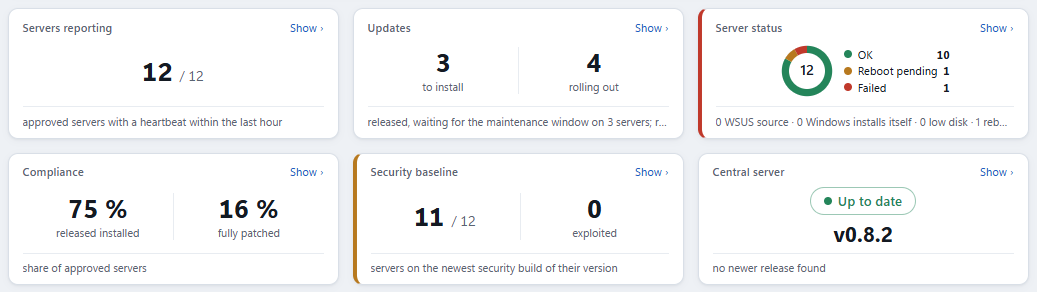
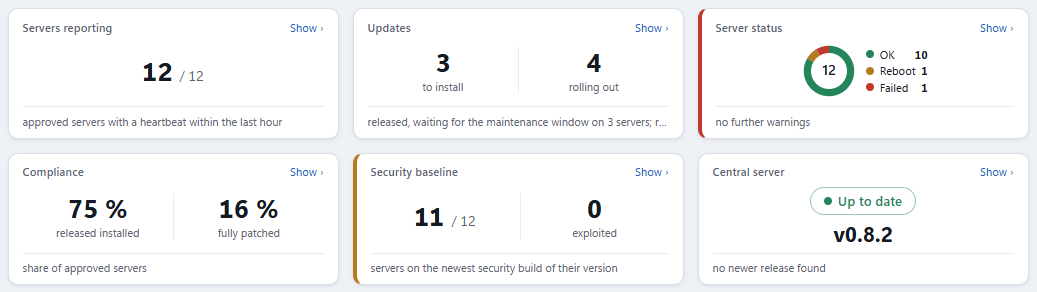
New README for the public beta; overview plurals and server status tile texts

Changed region(s): [[0.7406, 0.1541, 0.9257, 0.339], [0.6789, 0.4007, 0.9875, 0.4315]]

diff --git a/tests/SUSyphos.UiTests/ReadmeScreenshotTests.cs b/tests/SUSyphos.UiTests/ReadmeScreenshotTests.cs
@@ -3,7 +3,8 @@ using Microsoft.Playwright;
 namespace SUSyphos.UiTests;
 
 /// <summary>
-/// Full-page screenshots of the showcase lab for the README (docs/images, 1440 px wide, with the navigation). A normal run
+/// Screenshots of the showcase lab for the README (docs/images, 1440 px wide, with the navigation): the overview at window
+/// height (1440 × 900, the first impression), the other pages in full length. A normal run
 /// checks that every page can still be shown and that the committed image exists; with SUSYPHOS_HELP_SCREENSHOTS=update
 /// (build/Update-HelpScreenshots.ps1) the images are written anew.
 /// </summary>
@@ -42,7 +43,7 @@ public sealed class ReadmeScreenshotTests(ShowcaseFixture ui)
         if (HelpScreenshotTests.Update)
         {
             Directory.CreateDirectory(Path.GetDirectoryName(file)!);
-            await page.ScreenshotAsync(new PageScreenshotOptions { Path = file, FullPage = true });
+            await page.ScreenshotAsync(new PageScreenshotOptions { Path = file, FullPage = name != "overview" });
         }
 
         Assert.True(File.Exists(file), $"{file} is missing; run build/Update-HelpScreenshots.ps1.");

diff --git a/tests/SUSyphos.Server.Tests/DisplayTextTests.cs b/tests/SUSyphos.Server.Tests/DisplayTextTests.cs
@@ -1,0 +1,24 @@
+using SUSyphos.Server.Administration;
+using SUSyphos.Server.Components;
+
+namespace SUSyphos.Server.Tests;
+
+public sealed class DisplayTextTests
+{
+    [Theory]
+    [InlineData(1, "1 server")]
+    [InlineData(0, "0 servers")]
+    [InlineData(2, "2 servers")]
+    public void Count_PicksSingularOnlyForOne(int value, string expected)
+    {
+        Assert.Equal(expected, DisplayNumber.Count(value, "server", "servers"));
+    }
+
+    [Fact]
+    public void LegendLabel_ShortensRebootPending_AndKeepsTheOthers()
+    {
+        Assert.Equal("Reboot", ServerHealth.LegendLabel(ServerHealthState.RebootPending));
+        Assert.Equal("Reboot pending", ServerHealth.Label(ServerHealthState.RebootPending));
+        Assert.Equal(ServerHealth.Label(ServerHealthState.Failed), ServerHealth.LegendLabel(ServerHealthState.Failed));
+    }
+}

diff --git a/src/SUSyphos.Server/Administration/ServerHealth.cs b/src/SUSyphos.Server/Administration/ServerHealth.cs
@@ -95,6 +95,9 @@ internal static class ServerHealth
     public static IReadOnlyList<Rollouts.DonutPart> Parts(IEnumerable<ServerHealthState> states, Func<ServerHealthState, string?>? link = null)
     {
         var counts = states.GroupBy(s => s).ToDictionary(g => g.Key, g => g.Count());
-        return [.. DonutOrder.Select(s => new Rollouts.DonutPart(PillClass(s), Label(s), counts.GetValueOrDefault(s), link?.Invoke(s)))];
+        return [.. DonutOrder.Select(s => new Rollouts.DonutPart(PillClass(s), LegendLabel(s), counts.GetValueOrDefault(s), link?.Invoke(s)))];
     }
+
+    /// <summary>Label in a donut legend: as <see cref="Label"/>, but short enough for the narrow legend of a tile.</summary>
+    public static string LegendLabel(ServerHealthState state) => state == ServerHealthState.RebootPending ? "Reboot" : Label(state);
 }

diff --git a/tests/SUSyphos.Server.Tests/MsrcTests.cs b/tests/SUSyphos.Server.Tests/MsrcTests.cs
@@ -172,7 +172,7 @@ public sealed class MsrcTests
         Assert.DoesNotContain("CURRENT01", list, StringComparison.Ordinal);
         Assert.Contains("Fixes vulnerabilities", update, StringComparison.Ordinal);
         Assert.Contains("Security baseline", overview, StringComparison.Ordinal);
-        Assert.Contains("servers have a vulnerability Microsoft knows to be exploited", overview, StringComparison.Ordinal);
+        Assert.Contains("1 server has a vulnerability Microsoft knows to be exploited", overview, StringComparison.Ordinal);
         Assert.Contains("<option value=\"vulnerabilities\" selected", chart, StringComparison.Ordinal);
     }
 

diff --git a/src/SUSyphos.Server/Components/DisplayNumber.cs b/src/SUSyphos.Server/Components/DisplayNumber.cs
@@ -16,6 +16,9 @@ public static class DisplayNumber
 
     public static string Format(long value) => value.ToString("N0", Culture);
 
+    /// <summary>"1 server" or "3 servers": the count with the noun (or noun and verb) in singular or plural.</summary>
+    public static string Count(int value, string singular, string plural) => $"{Format(value)} {(value == 1 ? singular : plural)}";
+
     /// <summary>"75 %"; "–" for no value.</summary>
     public static string Percent(int? value) => value is { } percent ? $"{Format(percent)} %" : "–";
 

diff --git a/tests/SUSyphos.Server.Tests/DashboardPageTests.cs b/tests/SUSyphos.Server.Tests/DashboardPageTests.cs
@@ -330,7 +330,7 @@ public sealed class DashboardViewTests
 
         Assert.Equal(HttpStatusCode.OK, response.StatusCode);
         Assert.Contains("stopped before ring Test", html, StringComparison.Ordinal);
-        Assert.Contains("servers with a failed installation", html, StringComparison.Ordinal);
+        Assert.Contains("1 server with a failed installation", html, StringComparison.Ordinal);
         Assert.Contains("1 Pilot", html, StringComparison.Ordinal);
         Assert.Contains("1 failed", html, StringComparison.Ordinal);
     }

diff --git a/README.md b/README.md
@@ -1,72 +1,72 @@
-# SUSyphos
+<p align="center">
+  <img src="assets/logo/susyphos-icon.svg" width="88" alt="SUSyphos logo">
+</p>
 
-Central coordination of Windows updates for Windows servers with ring deployment, central configuration and reporting, as an alternative to WSUS. The name plays on SUS (Software Update Services, the predecessor of WSUS) and Sisyphus. Until 2026-10-20 the project was called UpdateCoordinator; installations of those versions are installed anew (`docs/admin/README.md`, section 17).
+<h1 align="center">SUSyphos</h1>
 
-> Status: beta, from version 0.8.0 (the packages are not code-signed yet). Agents register, verify the central server through its trust anchor, report inventory and available updates, and install released updates inside maintenance windows (reboots only where allowed). The web administration has accounts, roles, sign-in and an audit log; server approval (manual and rule-based); rings, groups, assignment rules, central maintenance windows, the ring logic that moves each update from Pilot to Production, dashboard pages for overview, rings, updates and servers, reboot policies, and an integrated help that explains every page, field and button.
+<p align="center">
+  <b>Ring-based Windows Server patching with one central dashboard.</b><br>
+  A lightweight, self-hosted alternative to WSUS.
+</p>
 
-## Components
+<p align="center">
+  <a href="https://github.com/debold/UpdateCoordinator/releases"><img src="https://img.shields.io/github/v/release/debold/UpdateCoordinator?include_prereleases&label=beta&color=1F5BC4" alt="Latest beta"></a>
+  <a href="https://github.com/debold/UpdateCoordinator/actions/workflows/ci.yml"><img src="https://img.shields.io/github/actions/workflow/status/debold/UpdateCoordinator/ci.yml?branch=main&label=CI" alt="CI"></a>
+  <img src="https://img.shields.io/badge/Windows%20Server-2016%E2%80%932025-151B24" alt="Windows Server 2016 to 2025">
+  <img src="https://img.shields.io/badge/.NET-10-512BD4" alt=".NET 10">
+  <a href="LICENSE"><img src="https://img.shields.io/badge/license-MIT-green" alt="MIT license"></a>
+</p>
 
-| Project | Responsibility |
-|---|---|
-| `src/SUSyphos.Agent` | Windows service on every managed server (WUA API) |
-| `src/SUSyphos.Server` | Central server: Windows service with a web API for agents and the dashboard |
-| `src/SUSyphos.Contracts` | Shared message contracts and routes |
-| `src/SUSyphos.WinGet` | Access to WinGet (in-proc COM API, uninstall inventory, App Installer bootstrap), for the agent later |
-| `tools/SUSyphos.WinGetProbe` | Lab tool for the WinGet tests, not released ([guide](docs/admin/winget-probe.md)) |
-| `tests/*.Tests` | Automated tests per project (xUnit v3) |
-| `tests/SUSyphos.IntegrationTests` | End-to-end tests: real agent client against the in-memory central server |
-| `tests/SUSyphos.TestSupport` | Shared test infrastructure |
+> [!NOTE]
+> **Public beta: [SUSyphos 0.8.2](https://github.com/debold/UpdateCoordinator/releases/tag/release/v0.8.2) is out.** Try it in a lab and tell us what you think in [Issues](https://github.com/debold/UpdateCoordinator/issues). The packages are not code-signed yet; check them against `SHA256SUMS.txt`.
 
-Architecture and decisions are documented in [`docs/`](docs/01-architecture.md), the working rules in [`docs/02-guidelines.md`](docs/02-guidelines.md).
+![Overview of the SUSyphos dashboard](docs/images/overview.png)
 
-## Prerequisites
+## Why SUSyphos
 
-- Windows (agent and central server are Windows services)
-- .NET SDK 10 (version pinned in `global.json`)
+- **Rings instead of approvals.** Updates move from Pilot to Test to Production on their own, with waiting days and an optional manual gate before Production.
+- **Maintenance windows that fit real calendars.** Weekdays plus "only the 2nd week" or "every week except the last". Reboots only where a rule allows them.
+- **Updates straight from Microsoft.** No WSUS database, no content sync, no SQL Server. Agents use the Windows Update Agent API; Microsoft Update per group.
+- **Security at a glance.** Missing builds, CVEs and exploited vulnerabilities from Microsoft's security data, plus end-of-support warnings per Windows version.
+- **Safe by design.** Agents trust the central server through a pinned anchor, admins sign in with Windows (AD groups map to roles), every action lands in the audit log.
+- **Small footprint.** One MSI for the central server, one for the agent, both self-contained. Distribute the agent by GPO, Intune or Configuration Manager.
 
-## Build and test
+## Screenshots
 
-```
-dotnet build SUSyphos.slnx
-dotnet test --solution SUSyphos.slnx
-```
+<table>
+  <tr>
+    <td width="50%"><img src="docs/images/update-list.png" alt="Update list"><br><sub><b>Updates</b>: classification, severity and where each update stands in the rings, including gates and alarms</sub></td>
+    <td width="50%"><img src="docs/images/update-progress.png" alt="Progress by ring"><br><sub><b>Update page</b>: progress by ring with release dates, success rate and the manual gate before Production</sub></td>
+  </tr>
+  <tr>
+    <td><img src="docs/images/server-list.png" alt="Server list"><br><sub><b>Servers</b>: OS build, ring and groups, security state, agent version and status</sub></td>
+    <td><img src="docs/images/start-rule.png" alt="Start rule dialog"><br><sub><b>Release rules</b>: decide which updates start automatically, with a preview of the matches</sub></td>
+  </tr>
+</table>
 
-The build treats warnings as errors, enforces code style and the security rules of the .NET analyzers, and fails on packages with known vulnerabilities.
+## Status and roadmap
 
-`tests/SUSyphos.UiTests` checks the dashboard in a real browser: Playwright drives the installed Microsoft Edge (headless; no browser download) against a central server with a demo lab. Every page is checked in four window sizes (1920, 1440, 1280 and 1024 pixels wide) for sideways scrolling, cut-off text, elements sticking out of their box, overlapping controls, unlabelled buttons, browser and content-security-policy errors and broken links; tables must fit without scrolling from 1280 pixels on. Further tests open every dialog, every column filter and use the script features. A failing page leaves a full-page screenshot in the test output folder under `ui-failures`. `HelpCoverageTests` checks that every visible field, button and switch of every page and dialog leads to a help section that names it, and `HelpScreenshotTests` takes the screenshots of the help (`build/Update-HelpScreenshots.ps1` writes them anew). Without Edge the UI tests are skipped.
+| | Version | What it covers |
+|---|---|---|
+| ✅ **Beta** | 0.8.x | Windows updates and drivers, rings and groups, maintenance windows, reboot rules, security baseline and CVEs, end-of-support tracking, notifications by mail and webhook, AD sign-in, backup, built-in help |
+| 🚧 **In progress** | 0.9 | Third-party software through WinGet: software inventory on all servers, updates through the same rings, and new installations picked from the WinGet catalog (Windows Server 2019 and later with Desktop Experience) |
+| 🗓 **Later** | | Code signing, self-update of the central server |
 
-## Running locally
+See the [changelog](CHANGELOG.md) for every release.
 
-1. Create the ASP.NET Core development certificate once: `dotnet dev-certs https` (it does not need to be trusted: the agent trusts the central server through its trust anchor)
-2. Start the central server: `dotnet run --project src/SUSyphos.Server` (listens on https://localhost:7190; database `server.dev.db` and trust anchor `trust-anchor.dev.key` in the project folder)
-3. Start the agent in a second terminal: `dotnet run --project src/SUSyphos.Agent` (development settings point to the local central server)
+## Quick start
 
-The agent pins the trust anchor of the central server, registers, stores its identity and trust state under `%ProgramData%\SUSyphos\Agent` and sends a heartbeat every 10 seconds. Both components write daily rolling logs to `%ProgramData%\SUSyphos\<component>\Logs`. EF Core migrations are created with the local tool (`dotnet tool restore` once): `dotnet ef migrations add <Name> --project src/SUSyphos.Server --output-dir Data/Migrations`.
+1. Download `SUSyphos.Server` and `SUSyphos.Agent` from the [latest release](https://github.com/debold/UpdateCoordinator/releases) and check them against `SHA256SUMS.txt`.
+2. Install the central server MSI on a Windows Server 2016 or later. Setup shows the port (default 8443) and a one-time token for the first admin account.
+3. Install the agent on your servers and point it to the central server (MSI property `SERVERURL` or group policy).
+4. Approve the new servers in the dashboard, put them into rings, and set your maintenance windows.
 
-## Installers and CI
-
-`./build/Build-Installers.ps1` builds the MSI packages of agent and central server (WiX Toolset, self-contained) into `artifacts/installers`. The GitHub Actions workflow `.github/workflows/ci.yml` builds and tests every push and installs, upgrades and uninstalls both MSIs on the runner. Installation options: see the admin documentation, section 17.
-
-## Versioning
-
-Agent and central server are versioned separately from git tags (`agent/v1.2.3`, `server/v1.2.3`) via MinVer; untagged builds get a pre-release version with the commit hash.
-
-## Project structure and conventions
-
-- `Directory.Build.props`: shared settings for all projects (target framework, analyzers, NuGet audit)
-- `Directory.Packages.props`: all package versions in one place
-- `tests/Directory.Build.props`: shared settings for the test projects
-- Internal types are automatically visible to the matching `*.Tests` project.
-- Everything in the repository is written in English.
+Full guide: [admin documentation](docs/admin/README.md).
 
 ## Documentation
 
-- [CHANGELOG.md](CHANGELOG.md)
-- [Admin documentation](docs/admin/README.md)
-- [SUSyphos WinGet Probe](docs/admin/winget-probe.md) (lab tool)
+[Admin guide](docs/admin/README.md) · [Architecture](docs/01-architecture.md) · [Build from source](docs/development.md) · [Changelog](CHANGELOG.md)
 
 ## License
 
-[MIT](LICENSE)
-
-The dashboard icons are from [Lucide](https://lucide.dev) (ISC license, [assets/icons/lucide/LICENSE](assets/icons/lucide/LICENSE)); `build/New-IconData.ps1` turns the SVG files into the table the dashboard renders inline.
+[MIT](LICENSE) © Marc Debold. Icons from [Lucide](https://lucide.dev) (ISC).

diff --git a/docs/development.md b/docs/development.md
@@ -1,0 +1,62 @@
+# Build from source
+
+Developer notes for SUSyphos: project layout, building and testing, running locally, installers and versioning. Administrators find setup and operation in the [admin documentation](admin/README.md).
+
+## Components
+
+| Project | Responsibility |
+|---|---|
+| `src/SUSyphos.Agent` | Windows service on every managed server (WUA API) |
+| `src/SUSyphos.Server` | Central server: Windows service with a web API for agents and the dashboard |
+| `src/SUSyphos.Contracts` | Shared message contracts and routes |
+| `src/SUSyphos.WinGet` | Access to WinGet (in-proc COM API, uninstall inventory, App Installer bootstrap), for the agent later |
+| `tools/SUSyphos.WinGetProbe` | Lab tool for the WinGet tests, not released ([guide](admin/winget-probe.md)) |
+| `tests/*.Tests` | Automated tests per project (xUnit v3) |
+| `tests/SUSyphos.IntegrationTests` | End-to-end tests: real agent client against the in-memory central server |
+| `tests/SUSyphos.TestSupport` | Shared test infrastructure |
+
+Architecture and decisions are documented in [`docs/`](01-architecture.md), the working rules in [`docs/02-guidelines.md`](02-guidelines.md).
+
+## Prerequisites
+
+- Windows (agent and central server are Windows services)
+- .NET SDK 10 (version pinned in `global.json`)
+
+## Build and test
+
+```
+dotnet build SUSyphos.slnx
+dotnet test --solution SUSyphos.slnx
+```
+
+The build treats warnings as errors, enforces code style and the security rules of the .NET analyzers, and fails on packages with known vulnerabilities.
+
+`tests/SUSyphos.UiTests` checks the dashboard in a real browser: Playwright drives the installed Microsoft Edge (headless; no browser download) against a central server with a demo lab. Every page is checked in four window sizes (1920, 1440, 1280 and 1024 pixels wide) for sideways scrolling, cut-off text, elements sticking out of their box, overlapping controls, unlabelled buttons, browser and content-security-policy errors and broken links; tables must fit without scrolling from 1280 pixels on. Further tests open every dialog, every column filter and use the script features. A failing page leaves a full-page screenshot in the test output folder under `ui-failures`. `HelpCoverageTests` checks that every visible field, button and switch of every page and dialog leads to a help section that names it, and `HelpScreenshotTests` takes the screenshots of the help (`build/Update-HelpScreenshots.ps1` writes them anew). Without Edge the UI tests are skipped.
+
+## Running locally
+
+1. Create the ASP.NET Core development certificate once: `dotnet dev-certs https` (it does not need to be trusted: the agent trusts the central server through its trust anchor)
+2. Start the central server: `dotnet run --project src/SUSyphos.Server` (listens on https://localhost:7190; database `server.dev.db` and trust anchor `trust-anchor.dev.key` in the project folder)
+3. Start the agent in a second terminal: `dotnet run --project src/SUSyphos.Agent` (development settings point to the local central server)
+
+The agent pins the trust anchor of the central server, registers, stores its identity and trust state under `%ProgramData%\SUSyphos\Agent` and sends a heartbeat every 10 seconds. Both components write daily rolling logs to `%ProgramData%\SUSyphos\<component>\Logs`. EF Core migrations are created with the local tool (`dotnet tool restore` once): `dotnet ef migrations add <Name> --project src/SUSyphos.Server --output-dir Data/Migrations`.
+
+## Installers and CI
+
+`./build/Build-Installers.ps1` builds the MSI packages of agent and central server (WiX Toolset, self-contained) into `artifacts/installers`. The GitHub Actions workflow `.github/workflows/ci.yml` builds and tests every push and installs, upgrades and uninstalls both MSIs on the runner. Installation options: see the admin documentation, section 17.
+
+## Versioning
+
+Agent and central server are versioned separately from git tags (`agent/v1.2.3`, `server/v1.2.3`) via MinVer; untagged builds get a pre-release version with the commit hash.
+
+## Project structure and conventions
+
+- `Directory.Build.props`: shared settings for all projects (target framework, analyzers, NuGet audit)
+- `Directory.Packages.props`: all package versions in one place
+- `tests/Directory.Build.props`: shared settings for the test projects
+- Internal types are automatically visible to the matching `*.Tests` project.
+- Everything in the repository is written in English.
+
+## Licenses of third-party assets
+
+The dashboard icons are from [Lucide](https://lucide.dev) (ISC license, [assets/icons/lucide/LICENSE](../assets/icons/lucide/LICENSE)); `build/New-IconData.ps1` turns the SVG files into the table the dashboard renders inline.

diff --git a/src/SUSyphos.Server/Help/Topics/10-overview.md b/src/SUSyphos.Server/Help/Topics/10-overview.md
@@ -22,7 +22,7 @@ Each tile has a title, the values in the middle and one line of context at the b
 |---|---|
 | **Servers reporting** | Approved servers that sent a heartbeat within the last hour, of all approved servers. A server that stays silent longer is "Offline". |
 | **Updates** | **To install**: released installations not done yet (server × update); each server installs them in its next maintenance window (the footer says on how many servers). **Rolling out**: updates whose rollout is running and that are still missing somewhere, also those waiting for a later ring. **Show ›** opens the update list. |
-| **Server status** | Approved servers by status as a donut (OK, Updating, Reboot pending, Warning, Failed, Offline); each entry of the legend opens the server list filtered to that status. Failed means the last installation or a pre-flight check failed (for example not enough disk space or a stopped Windows Update service). The footer counts the warnings: update source WSUS, Windows installs updates on its own (Automatic Updates), low disk space, reboot pending. |
+| **Server status** | Approved servers by status as a donut (OK, Updating, Reboot for reboot pending, Warning, Failed, Offline); each entry of the legend opens the server list filtered to that status. Failed means the last installation or a pre-flight check failed (for example not enough disk space or a stopped Windows Update service). The footer names the warnings that occur: update source WSUS, Windows installs updates on its own (Automatic Updates), low disk space; "no further warnings" when there are none. |
 | **Compliance** | Released installed (patch compliance): share of approved servers that have every update released for their ring installed. Fully patched: share whose update search reports no missing update at all, also none the rings still hold back. The difference is what the rings deliberately hold back. **Show ›** opens the servers that are not fully patched. |
 | **Security baseline** | Servers on the newest security build of their Windows version, of all servers it can be checked for, and how many have a vulnerability Microsoft knows to be exploited (red edge then); **Show ›** opens [Operating systems](help/operating-systems). |
 | **AD coverage** | Only when the directory was read: supported server accounts in Active Directory that run an agent, of all supported accounts. Opens the [AD coverage](help/coverage) list. |

diff --git a/CHANGELOG.md b/CHANGELOG.md
@@ -4,7 +4,13 @@ All notable changes are documented here. Format based on [Keep a Changelog](http
 
 ## [Unreleased]
 
+### Central server
+
+- Overview: "Needs attention" counts in singular for one server ("1 new server waits for approval"). The Server status tile no longer cuts its texts: the legend says "Reboot" for reboot pending, and the footer names only the warnings that occur ("no further warnings" otherwise).
+
 ### Documentation
+
+- New README for the public beta (what SUSyphos does, screenshots, roadmap, quick start); the developer notes moved to `docs/development.md`. The README overview screenshot shows the window height (1440 × 900) instead of the whole page.
 
 - Help screenshots come from a realistic demo set (twelve servers of a sample domain in three rings, updates at different ring stages: one rolling out, one waiting at the manual gate, one stopped by an alarm, one completed) and show the released version. Edge cases with long names stay in the layout tests.
 - README screenshots of the full pages in `docs/images` (overview, update list, update progress, server list, start rule), generated by `build/Update-HelpScreenshots.ps1` together with the help images.
